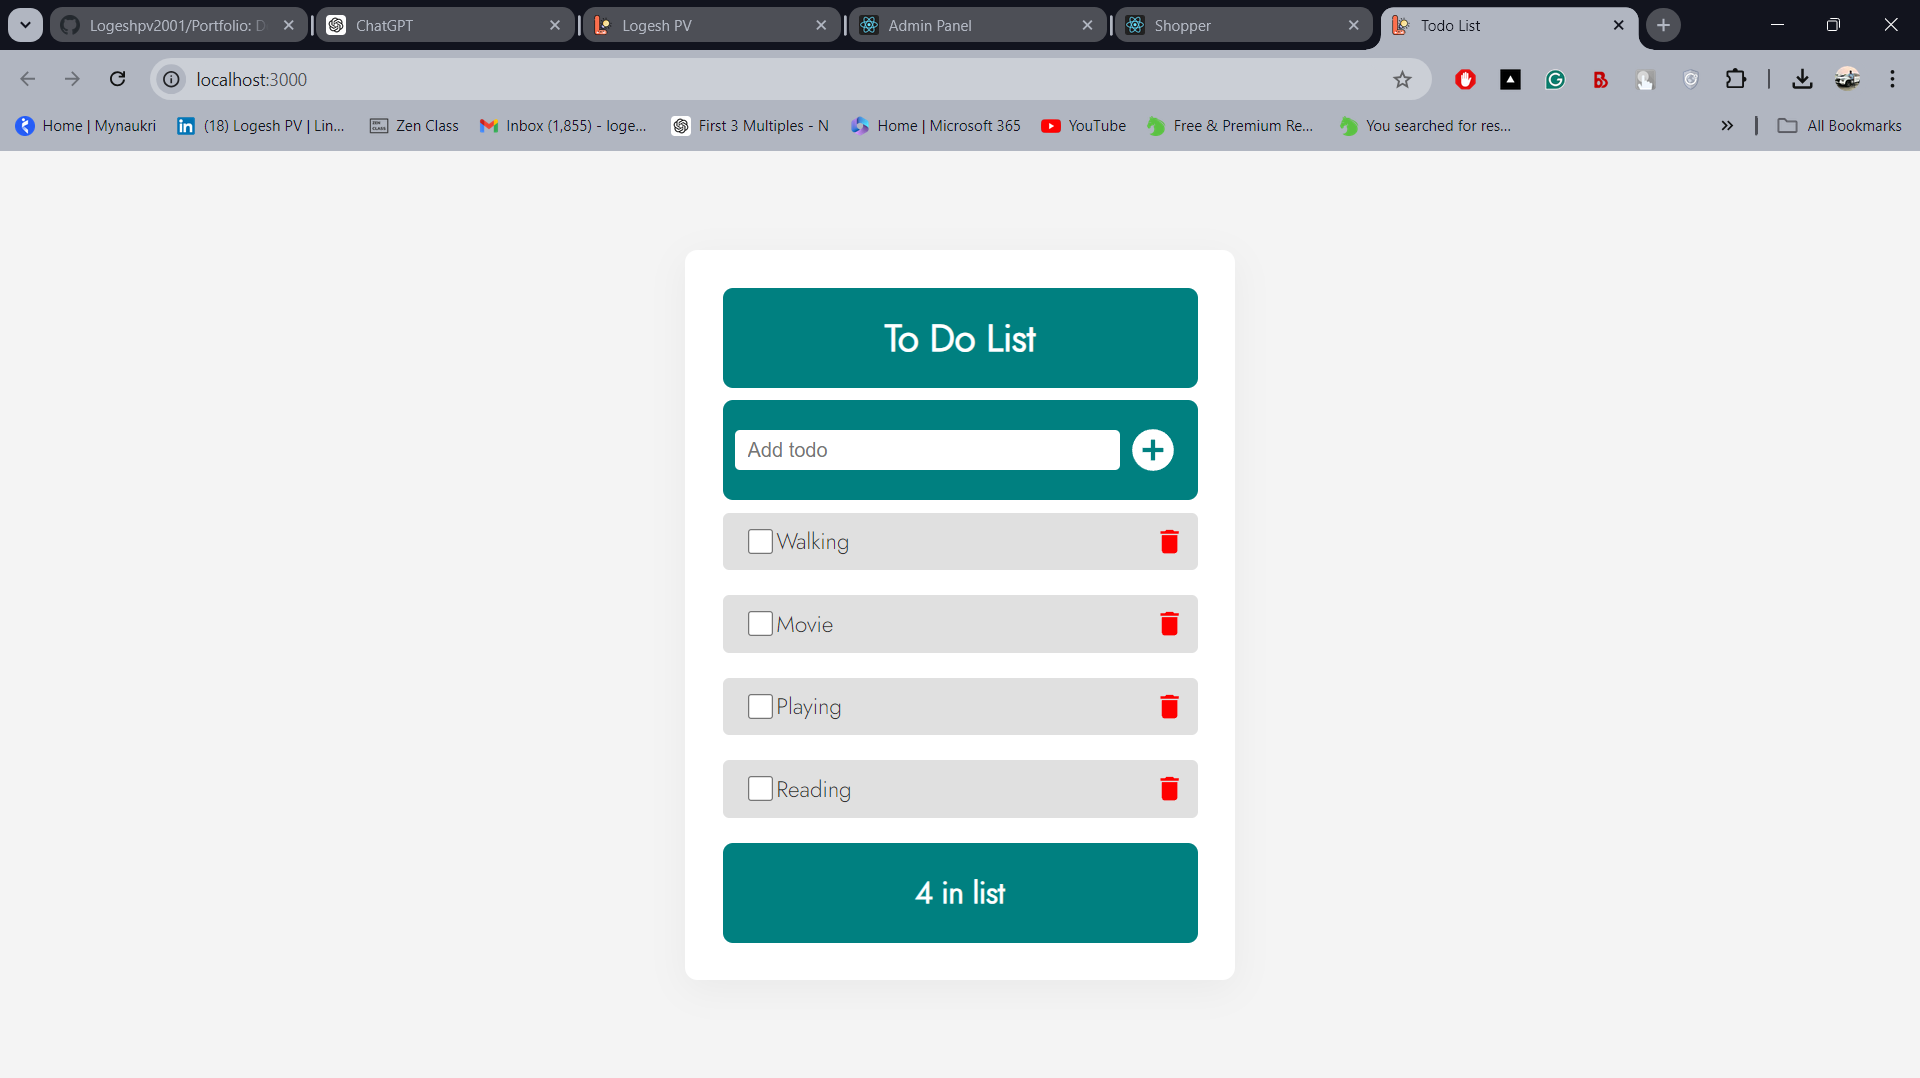
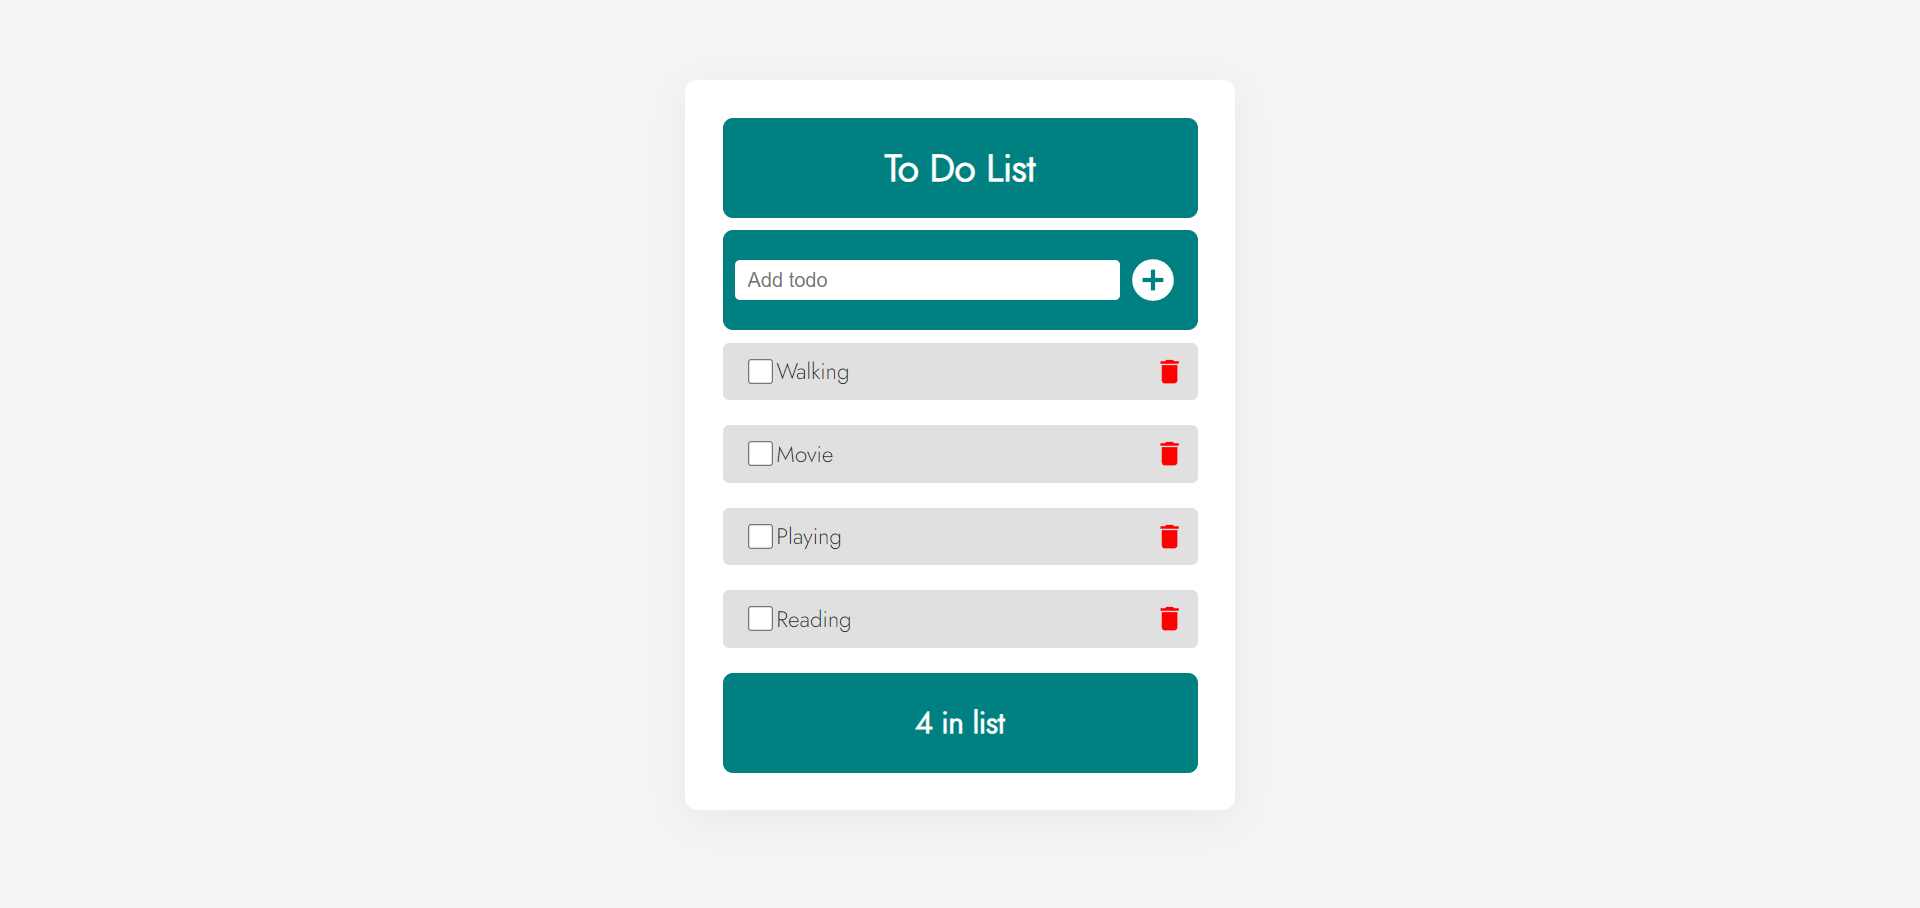
changed img

Changed region(s): [[0.0, 0.0, 1.0, 0.8943]]

diff --git a/src/components/Project/Project.js b/src/components/Project/Project.js
@@ -8,7 +8,7 @@ import CRM from "../../images/CRM.png";
 import lvfood from "../../images/LVFood.png";
 // import Shopping from "../../images/Shoopingcart.png";
 import quizapp from "../../images/Quiz-App.png";
-import redux from "../../images/reactredux.png";
+import todo from "../../images/Todo-list.png";
 
 const BootstrapTooltip = styled(({ className, ...props }) => (
   <Tooltip {...props} arrow classes={{ popper: className }} />
@@ -185,7 +185,7 @@ registration and login processes, ensuring user data protection and a seamless s
           </div>
         </div>
         <div className="box">
-          <img src={redux} alt="" />
+          <img src={todo} alt="" />
 
           <div className="overlay">
             <h3>To-Do List Application</h3>
